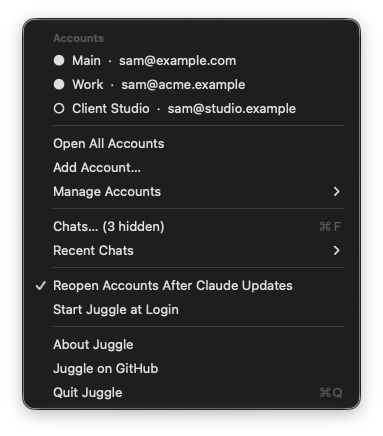
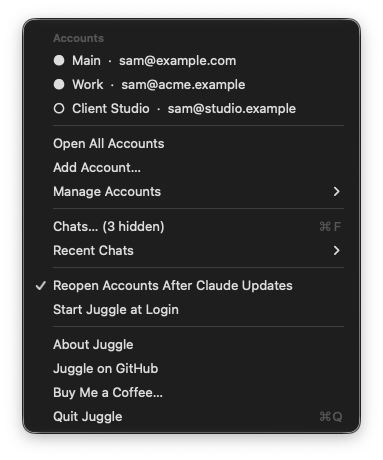
Add Buy Me a Coffee links
GitHub Sponsor button via .github/FUNDING.yml, a Support section in the
README and a Buy Me a Coffee item in the menu.

diff --git a/Sources/App.swift b/Sources/App.swift
@@ -3,6 +3,7 @@ import ServiceManagement
 
 let claudeBundleID = "com.anthropic.claudefordesktop"
 let repoURL = URL(string: "https://github.com/Harindulk/juggle")!
+let coffeeURL = URL(string: "https://buymeacoffee.com/harindulk")!
 /// JUGGLE_DEMO=1: made-up accounts and chats for screenshots. Opens, quits and copies nothing.
 /// JUGGLE_DEMO=menu: the same, with the menu bar menu opened instead of the Chats window.
 let demoMode = ["1", "menu"].contains(ProcessInfo.processInfo.environment["JUGGLE_DEMO"])
@@ -565,6 +566,7 @@ struct MenuContent: View {
         Divider()
         Button("About Juggle") { NSApp.orderFrontStandardAboutPanel(); NSApp.activate() }
         Button("Juggle on GitHub") { NSWorkspace.shared.open(repoURL) }
+        Button("Buy Me a Coffee…") { NSWorkspace.shared.open(coffeeURL) }
         Button("Quit Juggle") { NSApp.terminate(nil) }.keyboardShortcut("q")
     }
 }

diff --git a/README.md b/README.md
@@ -108,6 +108,10 @@ To take screenshots without your own accounts in them, run Juggle with made-up d
 
 Bug reports and pull requests are welcome. Run `./build.sh` before sending a change; it fails if the self-check in `Tests/main.swift` does.
 
+## Support
+
+Juggle is free and stays free. If it saves you some hassle, you can [buy me a coffee](https://buymeacoffee.com/harindulk). Bug reports and stars help too.
+
 ## License
 
 [MIT](LICENSE). Claude is a trademark of Anthropic, PBC. Juggle is an independent project.
